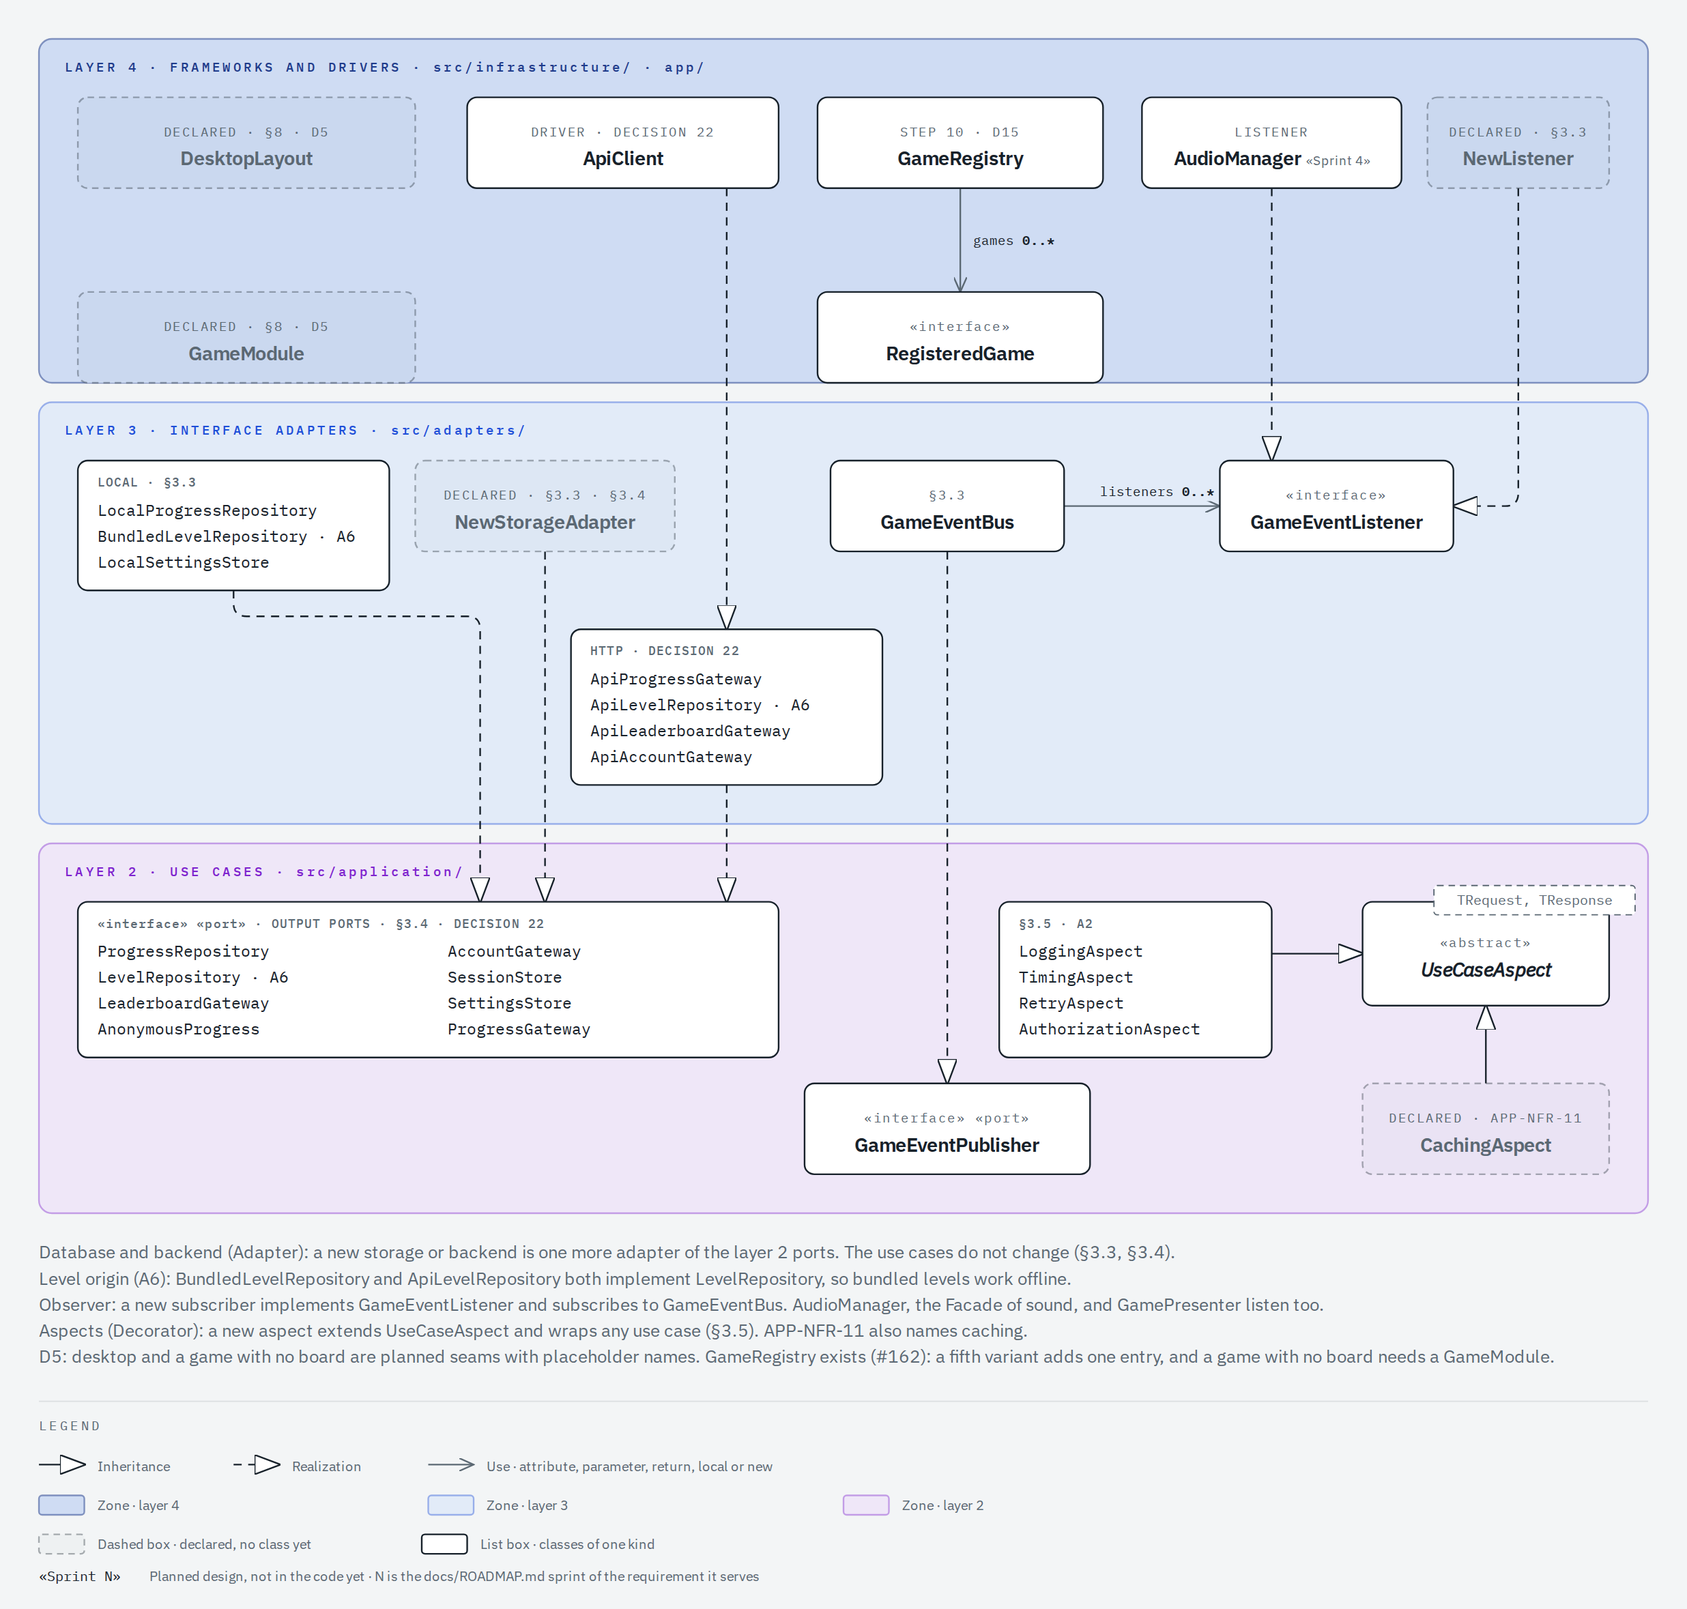
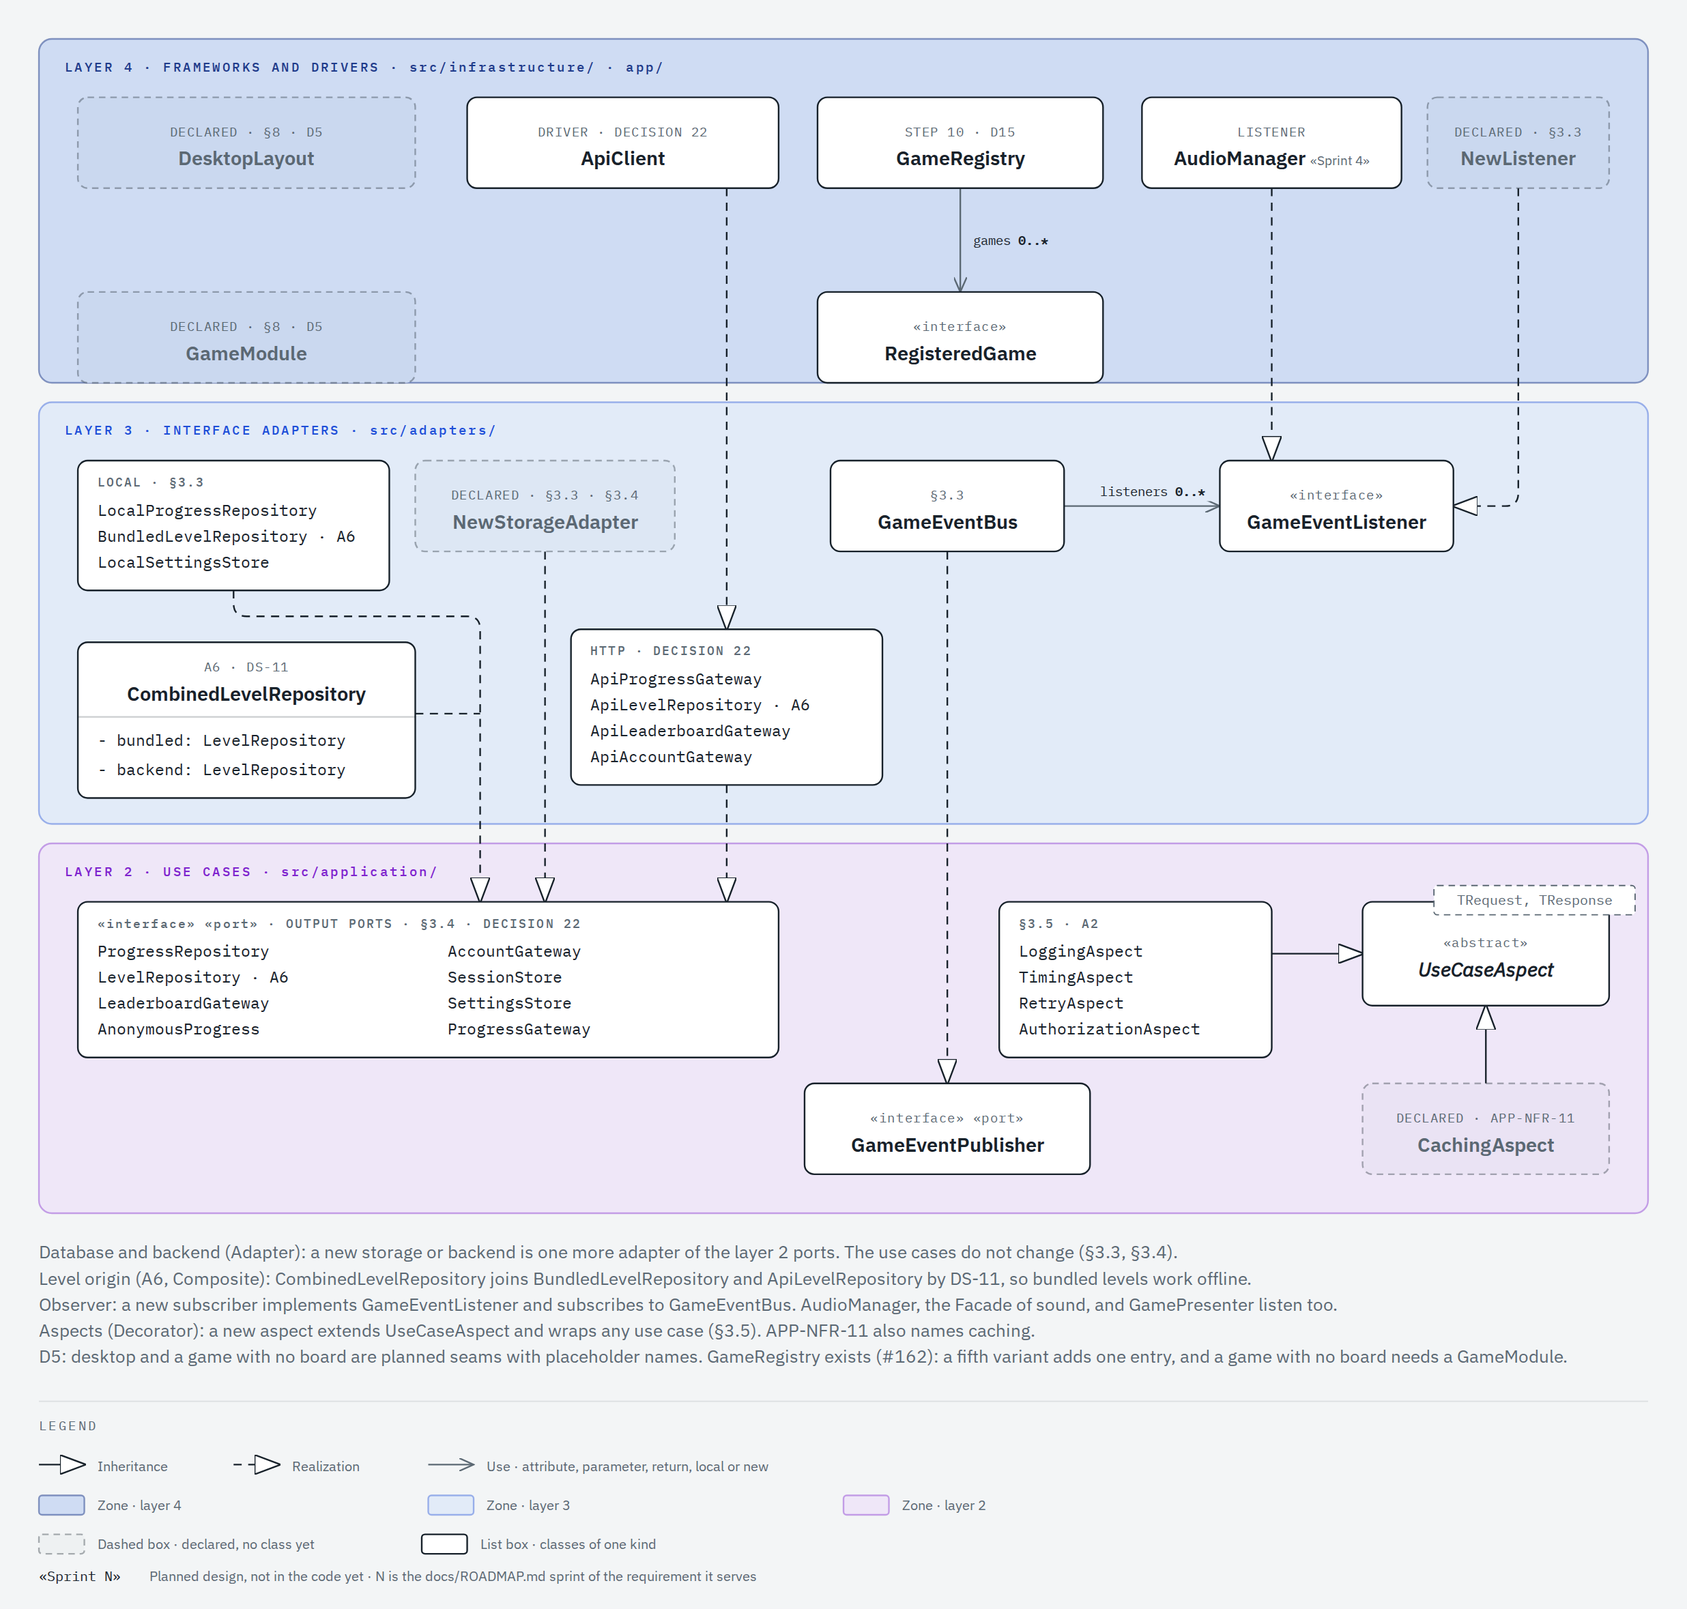
docs(architecture): draw the level version in view 5 and the joined levels in view 4 of ext (#48)

diff --git a/docs/architecture/classes/views/engine-5-factory.html b/docs/architecture/classes/views/engine-5-factory.html
@@ -73,23 +73,24 @@
         <desc id="factory-desc">
           Class diagram of layer 1 showing the IVariantFactory abstract factory that creates the
           rules, piece source, scoring, board, progress model, initial state and optional history of
-          a variant, LevelDefinition, the data of one level file with its level id and its order,
-          which directs the ILevelBuilder builder and tells the list of levels its figure and its
-          order, the abstract GameEvent with GameEnded, the domain event that the root records when
-          a game ends, with a note that GameEngine records it in the turn that ends a match, the
-          Clock and RandomSource interfaces that layer 4 implements, with a note that GameFactory
-          uses neither and the composition root injects both into the variant factories (a variant
-          factory draws a new Seed of the RandomSource in each match), and the MatchIdGenerator
-          interface that gives the MatchId of each new match. Each reading of the Clock is a
-          ClockReading value object (view 3). The internal ids are local value objects that keep the
-          MatchId of their match: GameFactory builds the GameStateId of the first state and the
-          BoardId of its board from it, and FitFactory builds the LevelTimerId of the timer of a
-          timed game in createTimer(). GameFactory keeps the GameId of the game, an IVariantFactory
-          that answers isFor() for it and the MatchIdGenerator, wraps the rules of a timed game in
-          TimedRulesDecorator, gives the same timer to the root and creates the started GameEngine.
-          GameEnded keeps the MatchId, the Outcome and the final Score, a value object, GameEvent
-          keeps the GameId, and the fields are private: a listener asks isVictory() or receives the
-          data through deliverTo().
+          a variant, LevelDefinition, the data of one level file with its level id, its order and
+          its version, which directs the ILevelBuilder builder, tells the list of levels its figure
+          and its order, and tells with replaces() if one copy of a level replaces another copy by
+          the rule of DS-11, the abstract GameEvent with GameEnded, the domain event that the root
+          records when a game ends, with a note that GameEngine records it in the turn that ends a
+          match, the Clock and RandomSource interfaces that layer 4 implements, with a note that
+          GameFactory uses neither and the composition root injects both into the variant factories
+          (a variant factory draws a new Seed of the RandomSource in each match), and the
+          MatchIdGenerator interface that gives the MatchId of each new match. Each reading of the
+          Clock is a ClockReading value object (view 3). The internal ids are local value objects
+          that keep the MatchId of their match: GameFactory builds the GameStateId of the first
+          state and the BoardId of its board from it, and FitFactory builds the LevelTimerId of the
+          timer of a timed game in createTimer(). GameFactory keeps the GameId of the game, an
+          IVariantFactory that answers isFor() for it and the MatchIdGenerator, wraps the rules of a
+          timed game in TimedRulesDecorator, gives the same timer to the root and creates the
+          started GameEngine. GameEnded keeps the MatchId, the Outcome and the final Score, a value
+          object, GameEvent keeps the GameId, and the fields are private: a listener asks
+          isVictory() or receives the data through deliverTo().
         </desc>
         <defs>
           <marker
@@ -203,7 +204,7 @@
           x="40"
           y="380"
           width="432"
-          height="444"
+          height="464"
           rx="8"
           fill="none"
           stroke="rgba(91,104,115,0.55)"
@@ -661,16 +662,16 @@
         <!-- LevelDefinition gives the topology and the section to the ILevelBuilder in buildWith(): use with a verb -->
         <line
           x1="220"
-          y1="664"
+          y1="696"
           x2="220"
-          y2="704"
+          y2="732"
           stroke="#5b6873"
           stroke-width="1"
           marker-end="url(#factory-open)"
         />
         <text
           x="228"
-          y="687"
+          y="717"
           fill="#7d8a94"
           font-size="8"
           font-family="'IBM Plex Mono', monospace"
@@ -678,12 +679,12 @@
         >
           BUILDWITH()
         </text>
-        <!-- Class: LevelDefinition (value object, director of the builder, decision 24) -->
+        <!-- Class: LevelDefinition (value object, director of the builder, decision 24). The version and replaces() hold the rule of DS-11 (decision 68, #48). -->
         <rect
           x="52"
           y="408"
           width="360"
-          height="256"
+          height="288"
           rx="6"
           fill="#ffffff"
           stroke="#17212a"
@@ -719,15 +720,18 @@
           - order: number
         </text>
         <text x="68" y="504" fill="#17212a" font-size="9" font-family="'IBM Plex Mono', monospace">
-          - topology: TopologyId
+          - version: number
         </text>
         <text x="68" y="520" fill="#17212a" font-size="9" font-family="'IBM Plex Mono', monospace">
+          - topology: TopologyId
+        </text>
+        <text x="68" y="536" fill="#17212a" font-size="9" font-family="'IBM Plex Mono', monospace">
           - section: string
         </text>
-        <line x1="52" y1="528" x2="412" y2="528" stroke="rgba(23,33,42,0.22)" stroke-width="1" />
+        <line x1="52" y1="544" x2="412" y2="544" stroke="rgba(23,33,42,0.22)" stroke-width="1" />
         <text
           x="68"
-          y="544"
+          y="560"
           fill="#17212a"
           font-size="9"
           font-family="'IBM Plex Mono', monospace"
@@ -737,36 +741,46 @@
         </text>
         <text
           x="79"
-          y="560"
+          y="576"
           fill="#17212a"
           font-size="9"
           font-family="'IBM Plex Mono', monospace"
           text-decoration="underline"
         >
-          topology: string; section: unknown }): LevelDefinition
+          version: number; topology: string; section: unknown }):
         </text>
-        <text x="68" y="576" fill="#17212a" font-size="9" font-family="'IBM Plex Mono', monospace">
-          + buildWith&lt;TLevel&gt;(builder: ILevelBuilder&lt;TLevel&gt;):
-        </text>
-        <text x="79" y="592" fill="#17212a" font-size="9" font-family="'IBM Plex Mono', monospace">
-          TLevel
+        <text
+          x="79"
+          y="592"
+          fill="#17212a"
+          font-size="9"
+          font-family="'IBM Plex Mono', monospace"
+          text-decoration="underline"
+        >
+          LevelDefinition
         </text>
         <text x="68" y="608" fill="#17212a" font-size="9" font-family="'IBM Plex Mono', monospace">
-          + levelId(): LevelId
+          + buildWith&lt;TLevel&gt;(builder: ILevelBuilder&lt;TLevel&gt;): TLevel
         </text>
         <text x="68" y="624" fill="#17212a" font-size="9" font-family="'IBM Plex Mono', monospace">
-          + isPlayedOn(figure: TopologyId): boolean
+          + levelId(): LevelId
         </text>
         <text x="68" y="640" fill="#17212a" font-size="9" font-family="'IBM Plex Mono', monospace">
-          + comesBefore(other: LevelDefinition): boolean
+          + isPlayedOn(figure: TopologyId): boolean
         </text>
         <text x="68" y="656" fill="#17212a" font-size="9" font-family="'IBM Plex Mono', monospace">
+          + comesBefore(other: LevelDefinition): boolean
+        </text>
+        <text x="68" y="672" fill="#17212a" font-size="9" font-family="'IBM Plex Mono', monospace">
+          + replaces(other: LevelDefinition): boolean
+        </text>
+        <text x="68" y="688" fill="#17212a" font-size="9" font-family="'IBM Plex Mono', monospace">
           + equals(other: LevelDefinition): boolean
         </text>
         <!-- Class: ILevelBuilder (interface of the Builder: only «interface», decision 23) -->
         <rect
           x="52"
-          y="704"
+          y="732"
           width="360"
           height="104"
           rx="6"
@@ -774,10 +788,10 @@
           stroke="#17212a"
           stroke-width="1"
         />
-        <line x1="52" y1="752" x2="412" y2="752" stroke="rgba(23,33,42,0.22)" stroke-width="1" />
+        <line x1="52" y1="780" x2="412" y2="780" stroke="rgba(23,33,42,0.22)" stroke-width="1" />
         <text
           x="232"
-          y="722"
+          y="750"
           fill="#5b6873"
           font-size="8"
           font-family="'IBM Plex Mono', monospace"
@@ -788,7 +802,7 @@
         </text>
         <text
           x="232"
-          y="740"
+          y="768"
           fill="#17212a"
           font-size="12"
           font-weight="600"
@@ -797,13 +811,13 @@
         >
           ILevelBuilder
         </text>
-        <text x="68" y="768" fill="#17212a" font-size="9" font-family="'IBM Plex Mono', monospace">
+        <text x="68" y="796" fill="#17212a" font-size="9" font-family="'IBM Plex Mono', monospace">
           + withTopology(topology: TopologyId): ILevelBuilder&lt;TLevel&gt;
         </text>
-        <text x="68" y="784" fill="#17212a" font-size="9" font-family="'IBM Plex Mono', monospace">
+        <text x="68" y="812" fill="#17212a" font-size="9" font-family="'IBM Plex Mono', monospace">
           + withSection(section: unknown): ILevelBuilder&lt;TLevel&gt;
         </text>
-        <text x="68" y="800" fill="#17212a" font-size="9" font-family="'IBM Plex Mono', monospace">
+        <text x="68" y="828" fill="#17212a" font-size="9" font-family="'IBM Plex Mono', monospace">
           + build(): TLevel
         </text>
 
@@ -1393,7 +1407,7 @@
         </text>
         <rect
           x="376"
-          y="694"
+          y="722"
           width="48"
           height="18"
           rx="2"
@@ -1404,7 +1418,7 @@
         />
         <text
           x="400"
-          y="706"
+          y="734"
           fill="#5b6873"
           font-size="8.5"
           font-family="'IBM Plex Mono', monospace"

diff --git a/docs/architecture/extensibility/views/ext-4-outer-layers.html b/docs/architecture/extensibility/views/ext-4-outer-layers.html
@@ -75,12 +75,13 @@
           Extension points of layers 2 to 4 that §8 or the class diagram declare: local and HTTP
           adapters of layer 3 for the layer 2 output ports of storage and backend, with ApiClient of
           layer 4 as the driver of the HTTP adapters (decision 22), the two level origins of A6,
-          GameEventBus and its listeners over the GameEventPublisher port of layer 2, the use case
-          aspects over UseCaseAspect, GameRegistry of layer 4, which keeps the registered games of
-          the composition root, and the planned desktop layout and game module of D5 as dashed
+          which CombinedLevelRepository joins by the rule of DS-11 (decision 68), GameEventBus and
+          its listeners over the GameEventPublisher port of layer 2, the use case aspects over
+          UseCaseAspect, GameRegistry of layer 4, which keeps the registered games of the
+          composition root, and the planned desktop layout and game module of D5 as dashed
           placeholders. GameEventBus keeps its listeners: a use with the attribute name and its
           multiplicity. No box carries a role label of a pattern: the footnotes name the Adapter,
-          the Observer, the Facade and the Decorator.
+          the Composite, the Observer, the Facade and the Decorator.
         </desc>
         <defs>
           <marker
@@ -552,6 +553,66 @@
           font-family="'IBM Plex Mono', monospace"
         >
           LocalSettingsStore
+        </text>
+        <!-- CombinedLevelRepository implements the output port LevelRepository: realization that joins the path of the local adapters (decision 68) -->
+        <path
+          d="M256,440 L296,440"
+          fill="none"
+          stroke-width="1"
+          stroke="#17212a"
+          stroke-dasharray="5,4"
+        />
+        <!-- Class: CombinedLevelRepository (the footnote names its pattern, decision 68). It keeps two parts of the port LevelRepository: the composition root gives it BundledLevelRepository and ApiLevelRepository (#48). -->
+        <rect
+          x="48"
+          y="396"
+          width="208"
+          height="96"
+          rx="6"
+          fill="#ffffff"
+          stroke="#17212a"
+          stroke-width="1"
+        />
+        <text
+          x="152.0"
+          y="414"
+          fill="#5b6873"
+          font-size="8"
+          font-family="'IBM Plex Mono', monospace"
+          text-anchor="middle"
+          letter-spacing="0.08em"
+        >
+          A6 · DS-11
+        </text>
+        <text
+          x="152.0"
+          y="432"
+          fill="#17212a"
+          font-size="12"
+          font-weight="600"
+          font-family="'IBM Plex Sans', sans-serif"
+          text-anchor="middle"
+        >
+          CombinedLevelRepository
+        </text>
+        <line x1="48" y1="442" x2="256" y2="442" stroke="rgba(23,33,42,0.22)" stroke-width="1" />
+        <text
+          x="60"
+          y="460"
+          fill="#17212a"
+          font-size="9.5"
+          font-family="'IBM Plex Mono', monospace"
+        >
+          - bundled: LevelRepository
+        </text>
+        <text
+          x="60"
+          y="478"
+          fill="#17212a"
+          font-size="9.5"
+          font-family="'IBM Plex Mono', monospace"
+        >
+          - backend: LevelRepository
         </text>
         <!-- Declared extension, no class yet: NewStorageAdapter -->
         <rect x="256" y="284" width="160" height="56" rx="6" fill="#e2ebf8" />
@@ -1048,8 +1109,8 @@
           font-size="11"
           font-family="'IBM Plex Sans', sans-serif"
         >
-          Level origin (A6): BundledLevelRepository and ApiLevelRepository both implement
-          LevelRepository, so bundled levels work offline.
+          Level origin (A6, Composite): CombinedLevelRepository joins BundledLevelRepository and
+          ApiLevelRepository by DS-11, so bundled levels work offline.
         </text>
         <text
           x="24"

diff --git a/docs/architecture/extensibility.md b/docs/architecture/extensibility.md
@@ -51,13 +51,13 @@ A new geometry adds one family: a coordinate type, a topology and the piece shap
 Layers 2 to 4 have their own extension points. The view shows only the ones that §8 or the class diagram declare.
 
 - **Database and backend.** A new storage or backend is one more adapter of the layer 2 ports. The use cases do not change (§3.3, §3.4, decision 22).
-- **Level origin (A6).** `BundledLevelRepository` and `ApiLevelRepository` both implement `LevelRepository`, so bundled levels work offline (APP-FR-15).
+- **Level origin (A6).** `BundledLevelRepository` and `ApiLevelRepository` both implement `LevelRepository`. `CombinedLevelRepository` implements the same port over two parts of it, a Composite, and joins their levels (decision 68). The composition root gives it `BundledLevelRepository` and `ApiLevelRepository` when its drivers hold the transport `api`. A root with no transport keeps `BundledLevelRepository` alone. The bundled levels always come, and a backend that fails counts as a backend with no level, so bundled levels work offline (APP-FR-15). A backend level whose id no bundled level has adds a level. When both hold a copy of one level, `LevelDefinition.replaces()` applies DS-11: the backend copy replaces the bundled copy only with a higher version.
 - **Observer.** A new subscriber implements `GameEventListener` and subscribes to `GameEventBus`, which implements `GameEventPublisher`, the port of layer 2. The engine records its events, and `ApplyMove` delivers them to the port after each turn (#233).
 - **Aspects.** A new aspect extends `UseCaseAspect` and wraps any use case (§3.5, APP-NFR-11).
 - **The game registry.** `GameRegistry` of the composition root lives in layer 4, `src/infrastructure/game-registry.ts` (#162). It keeps one `RegisteredGame` per game, with its variant factory and its screen parts: the state mapper, the cell renderer, the move controls (#175) and the figure layout (#170). So a fifth variant adds one entry and changes no other class. The root builds one registry for each board figure that the player can choose (#171), so the entry of a fifth variant runs on every figure.
 - **Desktop and a game with no board (D5).** Both are planned seams with no class yet. A game with no board needs a `GameModule` contract that a registry entry can hold, and the layer of that contract is open.
 
-![Outside the engine: local and HTTP adapters in layer 3 implement the output ports of layer 2, ApiClient in layer 4 is the driver of the HTTP adapters, with the two level origins of A6; GameEventBus implements GameEventPublisher, the port of layer 2, and AudioManager listens to it; the aspects extend UseCaseAspect; GameRegistry in layer 4 keeps its RegisteredGame entries; the declared DesktopLayout, GameModule, NewStorageAdapter, NewListener and CachingAspect are placeholders](extensibility/views/ext-4-outer-layers.png)
+![Outside the engine: local and HTTP adapters in layer 3 implement the output ports of layer 2, ApiClient in layer 4 is the driver of the HTTP adapters, with the two level origins of A6, which CombinedLevelRepository joins by DS-11; GameEventBus implements GameEventPublisher, the port of layer 2, and AudioManager listens to it; the aspects extend UseCaseAspect; GameRegistry in layer 4 keeps its RegisteredGame entries; the declared DesktopLayout, GameModule, NewStorageAdapter, NewListener and CachingAspect are placeholders](extensibility/views/ext-4-outer-layers.png)
 
 ## Extension points by variant
 
